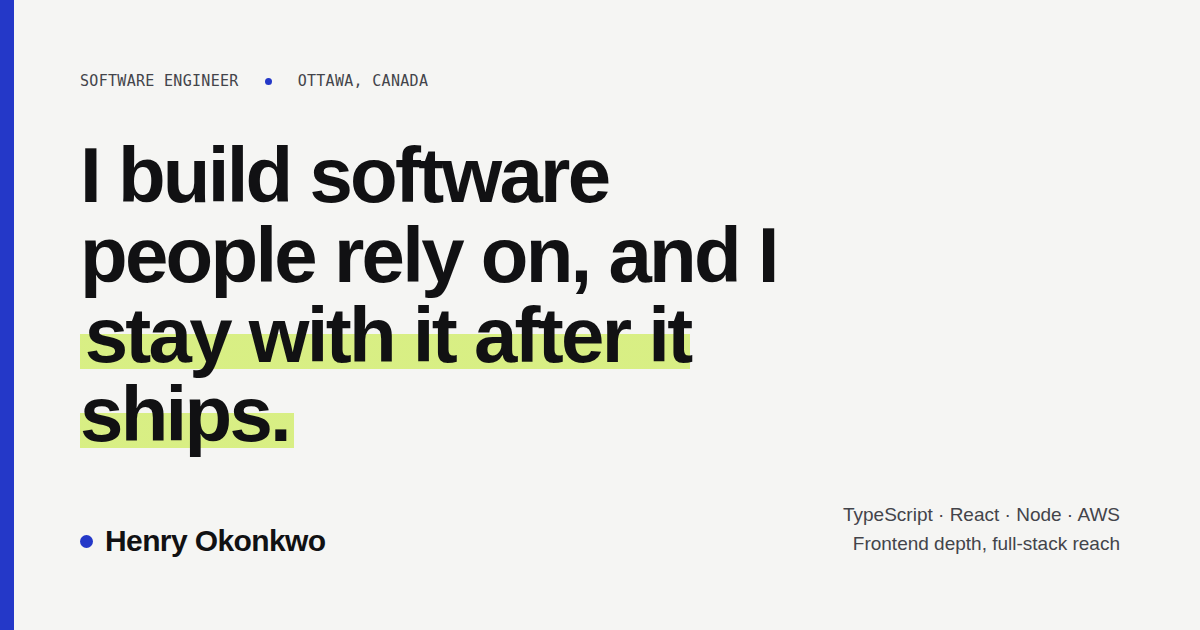
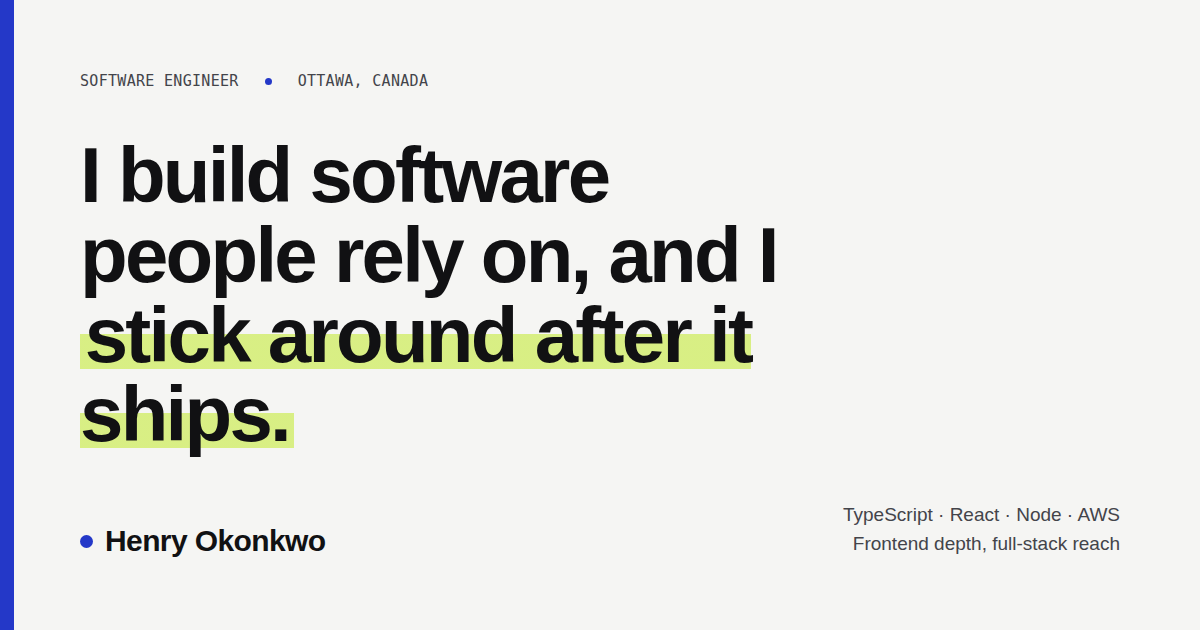
Update files

Changed region(s): [[0.1233, 0.4825, 0.6475, 0.6032]]

diff --git a/index.html b/index.html
@@ -20,7 +20,7 @@
 <meta property="og:image" content="https://henryookonkwo.github.io/og-image.png">
 <meta property="og:image:width" content="1200">
 <meta property="og:image:height" content="630">
-<meta property="og:image:alt" content="Henry Okonkwo, Software Engineer — I build software people rely on, and I stay with it after it ships.">
+<meta property="og:image:alt" content="Henry Okonkwo, Software Engineer — I build software people rely on, and I stick around after it ships.">
 
 <meta name="twitter:card" content="summary_large_image">
 <meta name="twitter:title" content="Henry Okonkwo — Software Engineer">
@@ -617,9 +617,9 @@ footer .shell{display:flex;justify-content:space-between;gap:1rem;flex-wrap:wrap
         <span>Software Engineer</span>
         <span>Ottawa, Canada</span>
       </p>
-      <h1 id="intro-h" class="rise">I build software people rely on, and I <span class="mark">stay with it after it ships.</span></h1>
-      <p class="sub rise">Six years across cybersecurity, national logistics, consumer platforms and telecom. I work the whole path a feature travels: the conversation that defines it, the interface people touch, the API underneath, the data it lives in, and the pipeline that puts it in front of customers.</p>
-      <p class="sub rise">My deepest craft is the <b>frontend</b> — interfaces, design systems, accessibility, performance. I've just never treated that as the edge of the job.</p>
+      <h1 id="intro-h" class="rise">I build software people rely on, and I <span class="mark">stick around after it ships.</span></h1>
+      <p class="sub rise">Six years of it, across cybersecurity, national logistics, consumer platforms and telecom. These days I own services rather than screens, so a feature I ship includes the API design, the database, the pipeline and the on-call rotation, not just the part people click.</p>
+      <p class="sub rise">The <b>frontend</b> is still what I'm best at. It's just never been where I stop.</p>
       <div class="cta rise">
         <a class="btn solid" href="#contact">Get in touch</a>
         <a class="btn" href="#stack">See how I work across the stack</a>
@@ -627,9 +627,9 @@ footer .shell{display:flex;justify-content:space-between;gap:1rem;flex-wrap:wrap
 
       <dl class="glance">
         <div><dt class="sr-only">Years of experience</dt><dd class="n">6+</dd><dd class="t">Years building production software</dd></div>
-        <div><dt class="sr-only">Sectors</dt><dd class="n">4</dd><dd class="t">Sectors, from security to logistics</dd></div>
-        <div><dt class="sr-only">Scale</dt><dd class="n">500K+</dd><dd class="t">Organisations reached by platforms I've worked on</dd></div>
-        <div><dt class="sr-only">Ownership</dt><dd class="n">6</dd><dd class="t">Production services owned end to end today</dd></div>
+        <div><dt class="sr-only">Sectors</dt><dd class="n">4</dd><dd class="t">Industries, from security to logistics</dd></div>
+        <div><dt class="sr-only">Scale</dt><dd class="n">500K+</dd><dd class="t">Organizations using the platform I work on</dd></div>
+        <div><dt class="sr-only">Ownership</dt><dd class="n">6</dd><dd class="t">Production services I own today</dd></div>
       </dl>
     </section>
 
@@ -637,24 +637,24 @@ footer .shell{display:flex;justify-content:space-between;gap:1rem;flex-wrap:wrap
     <section class="band" id="story" aria-labelledby="story-h">
       <div class="bandhead">
         <span class="mono kicker">How I got here</span>
-        <h2 id="story-h">A frontend engineer who kept following the problem</h2>
-        <p>Three chapters, and a fairly consistent pattern in all of them.</p>
+        <h2 id="story-h">I kept following the problem past the frontend</h2>
+        <p>Three stages, and the same habit driving all of them.</p>
       </div>
       <div class="story">
         <div class="col">
           <span class="mono num">Chapter one</span>
-          <h3>Learning the craft properly</h3>
-          <p>I started where a lot of engineers start — building interfaces — but I got lucky in where I did it. Environments with real test discipline, real accessibility requirements, and real consequences for shipping something broken. I learned component architecture, type safety and testing as habits rather than as things you add later when someone asks.</p>
+          <h3>Learning the craft</h3>
+          <p>I started out building interfaces, and I got lucky with where. Teams that took testing seriously, products with real accessibility requirements, and enough scale that a bad release was somebody's actual problem. Component structure, types and tests became habits early instead of things I bolted on afterwards.</p>
         </div>
         <div class="col">
           <span class="mono num">Chapter two</span>
-          <h3>Running out of road</h3>
-          <p>The more complex the products got, the more often the interesting problem sat on the other side of a boundary I wasn't supposed to cross. A slow page that was really a query. A confusing screen that was really a missing API. Waiting for someone else to pick it up was slower than learning enough to help, so I learned.</p>
+          <h3>Hitting the boundary</h3>
+          <p>As the products got bigger, the interesting problem was usually just past a line I wasn't meant to cross. A slow page that turned out to be a query. A confusing screen that was really a missing endpoint. I got tired of waiting for someone else to have time, so I learned enough to do it myself.</p>
         </div>
         <div class="col">
           <span class="mono num">Chapter three</span>
-          <h3>Owning the whole thing</h3>
-          <p>Now I own services rather than screens. That means the design conversation, the API contract, the code on both sides of it, the tests, the pipeline, and the escalation at 9pm when something breaks. It's a bigger job and a better one, and it's made me a considerably more useful engineer to have on a team.</p>
+          <h3>Owning services</h3>
+          <p>Now I own six services instead of a set of screens. Design conversations, API contracts, code on both sides, tests, pipelines, and the escalation at nine at night when something breaks. Harder job. Much more interesting one.</p>
         </div>
       </div>
     </section>
@@ -664,14 +664,14 @@ footer .shell{display:flex;justify-content:space-between;gap:1rem;flex-wrap:wrap
       <div class="bandhead">
         <span class="mono kicker">Capabilities</span>
         <h2 id="cap-h">What I bring to a team</h2>
-        <p>Ordered roughly by how much of my week each one takes, not by how impressive it sounds.</p>
+        <p>Ordered by how much of my week each one takes.</p>
       </div>
       <div class="bento">
 
         <article class="tile feature">
           <span class="mono tk">Primary strength</span>
           <h3>Frontend engineering, at depth</h3>
-          <p>Production interfaces in TypeScript with React and Vue: component architecture that survives contact with other teams, state that stays predictable as features accumulate, design systems and the migrations that keep them current, theming, internationalisation, and performance work that starts with measurement rather than instinct. Accessibility is part of the build, not a remediation ticket — WCAG 2.1 AA and AODA are how I write the markup in the first place.</p>
+          <p>Production interfaces in TypeScript, mostly React with some Vue. Component structure other teams can build on, state that stays predictable as features pile up, design systems and the migrations that keep them current, theming, localization, and performance work that starts by measuring instead of guessing. I write accessible markup from the start, so WCAG 2.1 AA and AODA never become a cleanup ticket later.</p>
           <ul>
             <li>TypeScript</li><li>React</li><li>Vue</li><li>Design systems</li><li>WCAG 2.1 AA</li><li>Performance</li>
           </ul>
@@ -680,49 +680,49 @@ footer .shell{display:flex;justify-content:space-between;gap:1rem;flex-wrap:wrap
         <article class="tile wide">
           <span class="mono tk">End to end</span>
           <h3>Features, not layers</h3>
-          <p>I define API contracts with the engineers who build them, then ship on both sides where it makes sense: service endpoints, business logic, request and response shapes, documentation. Knowing what the other side costs makes me a better client of it — I stop asking for endpoints that are expensive to serve and start asking for ones that are cheap to build and cheap to call.</p>
+          <p>I define API contracts with the engineers who build them, and ship on both sides when it makes sense: endpoints, business logic, request and response shapes, documentation. Knowing what an endpoint costs to build makes me much better at asking for one.</p>
           <ul><li>REST</li><li>GraphQL</li><li>Node.js</li><li>OpenAPI</li><li>Contract design</li></ul>
         </article>
 
         <article class="tile third">
           <span class="mono tk">Data</span>
           <h3>Comfortable at the storage layer</h3>
-          <p>Relational and document stores, query and index behaviour, schema decisions and their downstream cost, and the careful work of investigating and correcting data on live systems without making things worse.</p>
+          <p>Relational and document stores, how queries and indexes actually behave, what a schema decision costs you a year later, and the careful work of fixing data on a live system without making it worse.</p>
           <ul><li>SQL</li><li>DynamoDB</li><li>S3</li></ul>
         </article>
 
         <article class="tile third">
           <span class="mono tk">Platform</span>
           <h3>Cloud and infrastructure</h3>
-          <p>Building and running services on AWS and Azure, containerised and orchestrated, with infrastructure defined in code. Enough depth to debug my own service in production rather than filing a ticket and waiting.</p>
+          <p>Running services on AWS and Azure, in containers, with infrastructure kept in code. Enough to deploy my own work and debug it in production instead of filing a ticket and waiting.</p>
           <ul><li>AWS</li><li>Azure</li><li>Docker</li><li>Kubernetes</li><li>Terraform</li></ul>
         </article>
 
         <article class="tile third">
           <span class="mono tk">Delivery</span>
           <h3>Pipelines and release</h3>
-          <p>CI/CD I maintain rather than inherit: build and test workflows, coverage gates, staged promotion through environments, feature flags for progressive rollout, and the discipline of shipping small.</p>
+          <p>Build and test workflows, coverage thresholds that actually block a merge, staged promotion through environments, and feature flags for gradual rollout. Usually I'm the one maintaining them, not just using them.</p>
           <ul><li>GitHub Actions</li><li>Coverage gates</li><li>Feature flags</li></ul>
         </article>
 
         <article class="tile wide">
           <span class="mono tk">Reliability</span>
           <h3>Security-minded, and on call for my own work</h3>
-          <p>I've spent enough time in identity, access control and authorisation to treat security as a design input rather than a review gate — permissions before pixels. I remediate what scanners and security reviews surface, and I take my turn on the escalation rotation, which is where you learn what your software is actually like to live with.</p>
+          <p>I've spent enough time in identity and access control that permissions are the first thing I think about on a new feature, not a review comment at the end. I fix what security scans and reviews turn up, and I take my turn on the escalation rotation. That rotation is where you find out what your software is really like to live with.</p>
           <ul><li>Authentication</li><li>Access control</li><li>Vulnerability remediation</li><li>On-call</li></ul>
         </article>
 
         <article class="tile wide">
           <span class="mono tk">Working with people</span>
           <h3>Clear, and easy to work with</h3>
-          <p>I write things down: specifications, test cases, migration guides, decision records. I mentor by handing over real work with enough scaffolding to succeed at it. I review specs as carefully as pull requests, because a wrong assumption costs more at the start than at the end. And I say when I don't know something, which turns out to save everyone time.</p>
+          <p>I write things down: specs, test cases, migration guides, decisions and why we made them. I mentor by handing over real work with enough support to succeed at it. I review specs as carefully as pull requests, because a wrong assumption is cheap to fix at the start and expensive at the end. And I say when I don't know something.</p>
           <ul><li>Mentoring</li><li>Documentation</li><li>Code &amp; spec review</li><li>Cross-team</li></ul>
         </article>
 
         <article class="tile full">
           <span class="mono tk">Modern tooling</span>
           <h3>AI-assisted engineering, used seriously</h3>
-          <p>Agentic coding tools and MCP servers are part of my daily workflow — planning complex changes, generating and reviewing test coverage, working through large migrations, turning specifications into task breakdowns. The value is in the judgement applied around them: I read every diff, and I've caught generated plans built on assumptions the codebase didn't support.</p>
+          <p>Agentic coding tools and MCP servers are part of my daily workflow: planning complex changes, generating and reviewing test coverage, working through large migrations, turning specs into task lists. The judgment around them is still the job. I read every diff, and I've thrown out generated plans that were built on assumptions the codebase didn't support.</p>
           <ul><li>Agentic tooling</li><li>MCP</li><li>Spec-first workflows</li><li>Test generation</li></ul>
         </article>
 
@@ -734,7 +734,7 @@ footer .shell{display:flex;justify-content:space-between;gap:1rem;flex-wrap:wrap
       <div class="bandhead">
         <span class="mono kicker">The stack</span>
         <h2 id="stack-h">Where I work, and how deep I go</h2>
-        <p>An honest map rather than a list of everything I've touched. Expand a layer to see what I actually do there.</p>
+        <p>An honest map, not a list of everything I've ever touched. Open a layer to see what I actually do there.</p>
       </div>
 
       <div class="stack" id="stackList">
@@ -754,7 +754,7 @@ footer .shell{display:flex;justify-content:space-between;gap:1rem;flex-wrap:wrap
             </button>
           </h3>
           <div class="panel" id="p-ui" role="region" aria-labelledby="b-ui">
-            <p>Component architecture, application state, routing, forms, data fetching and caching, design-system adoption and migration, theming, responsive layout, internationalisation, and accessibility built in from the markup up. This is where I'm fastest and where I'd expect to raise a team's ceiling.</p>
+            <p>Component structure, application state, routing, forms, data fetching and caching, design-system adoption and migration, theming, responsive layout, localization, and accessibility written into the markup from the start. I'm fastest here, and this is where I'd expect to raise a team's ceiling.</p>
             <ul><li>TypeScript</li><li>React</li><li>Next.js</li><li>Vue</li><li>Zustand</li><li>Redux</li><li>React Query</li><li>Tailwind</li><li>Design tokens</li><li>WCAG 2.1 AA</li></ul>
           </div>
         </div>
@@ -774,7 +774,7 @@ footer .shell{display:flex;justify-content:space-between;gap:1rem;flex-wrap:wrap
             </button>
           </h3>
           <div class="panel" id="p-api" role="region" aria-labelledby="b-api" hidden>
-            <p>Designing endpoints with the engineers who implement them: resource shapes, pagination and filtering, error semantics, versioning, and the documentation that keeps everyone honest. Most of the worst frontend code I've seen exists to compensate for an API nobody negotiated.</p>
+            <p>Designing endpoints with the engineers who implement them: resource shapes, pagination and filtering, error handling, versioning, and documentation that stays accurate. A lot of ugly frontend code exists only to work around an API nobody discussed first.</p>
             <ul><li>REST</li><li>GraphQL</li><li>OpenAPI / Swagger</li><li>Pagination &amp; filtering</li><li>Versioning</li><li>WebSockets</li></ul>
           </div>
         </div>
@@ -794,8 +794,8 @@ footer .shell{display:flex;justify-content:space-between;gap:1rem;flex-wrap:wrap
             </button>
           </h3>
           <div class="panel" id="p-svc" role="region" aria-labelledby="b-svc" hidden>
-            <p>Server-side changes in the services I own: business logic, authentication and authorisation checks, integration with internal platforms, and the tests that keep them honest. I'm not going to claim I'd architect a distributed system from scratch — I will absolutely ship a well-tested change in one.</p>
-            <ul><li>Node.js</li><li>Express</li><li>Authorisation</li><li>Integration</li><li>Go (reading)</li></ul>
+            <p>Server-side changes in the services I own: business logic, authentication and authorization checks, integrations with internal platforms, and the tests that go with them. I won't claim I'd architect a distributed system from scratch. I will happily ship a well-tested change inside one.</p>
+            <ul><li>Node.js</li><li>Express</li><li>Authorization</li><li>Integration</li><li>Go (reading)</li></ul>
           </div>
         </div>
 
@@ -814,8 +814,8 @@ footer .shell{display:flex;justify-content:space-between;gap:1rem;flex-wrap:wrap
             </button>
           </h3>
           <div class="panel" id="p-data" role="region" aria-labelledby="b-data" hidden>
-            <p>Reading and writing across relational and document stores, understanding how access patterns shape schema decisions, optimising queries that have outgrown their design, and investigating and correcting records on live systems with the care that deserves.</p>
-            <ul><li>SQL Server</li><li>DynamoDB</li><li>S3</li><li>Query optimisation</li><li>Data investigation</li></ul>
+            <p>Reading and writing across relational and document stores, understanding how access patterns shape a schema, fixing queries that outgrew their design, and correcting records on live systems with the care that deserves.</p>
+            <ul><li>SQL Server</li><li>DynamoDB</li><li>S3</li><li>Query optimization</li><li>Data investigation</li></ul>
           </div>
         </div>
 
@@ -834,7 +834,7 @@ footer .shell{display:flex;justify-content:space-between;gap:1rem;flex-wrap:wrap
             </button>
           </h3>
           <div class="panel" id="p-plat" role="region" aria-labelledby="b-plat" hidden>
-            <p>Cloud services, containers, orchestration and infrastructure as code — enough to deploy my own work, read the logs and metrics when it misbehaves, and hold a useful conversation with the people whose full-time job this is.</p>
+            <p>Cloud services, containers, orchestration and infrastructure as code. Enough to deploy my own work, read the logs and metrics when it misbehaves, and hold a useful conversation with the people who do this full time.</p>
             <ul><li>AWS</li><li>Azure</li><li>Docker</li><li>Kubernetes</li><li>Terraform</li><li>Observability</li></ul>
           </div>
         </div>
@@ -854,7 +854,7 @@ footer .shell{display:flex;justify-content:space-between;gap:1rem;flex-wrap:wrap
             </button>
           </h3>
           <div class="panel" id="p-del" role="region" aria-labelledby="b-del" hidden>
-            <p>Build and test pipelines, coverage thresholds that actually block a merge, staged promotion through environments, feature flags for progressive and regional rollout, release verification, and taking my turn on the escalation rotation for what I've shipped.</p>
+            <p>Build and test pipelines, coverage thresholds that actually block a merge, staged promotion through environments, feature flags for gradual and regional rollout, release verification, and my turn on the escalation rotation for whatever I've shipped.</p>
             <ul><li>GitHub Actions</li><li>CI/CD</li><li>Jest</li><li>Playwright</li><li>Cypress</li><li>Feature flags</li><li>On-call</li></ul>
           </div>
         </div>
@@ -872,29 +872,29 @@ footer .shell{display:flex;justify-content:space-between;gap:1rem;flex-wrap:wrap
     <section class="band" id="process" aria-labelledby="proc-h">
       <div class="bandhead">
         <span class="mono kicker">How I work</span>
-        <h2 id="proc-h">The same four moves, most of the time</h2>
-        <p>Not a methodology. Just the order that keeps me from building the wrong thing well.</p>
+        <h2 id="proc-h">Roughly the same four steps every time</h2>
+        <p>Not a methodology. Just the order that stops me building the wrong thing well.</p>
       </div>
       <ol class="process" role="list" style="list-style:none;padding:0">
         <li class="step">
           <span class="sn">Step one</span>
           <h3>Understand the constraint</h3>
-          <p>Before design, find out what's actually forcing the request — a compliance requirement, a customer escalation, a cost, a limit someone hit. The stated feature and the real constraint are often different, and only one of them tells you what "done" means.</p>
+          <p>Before any design work, find out what's actually driving the request. A compliance rule, a customer escalation, a cost, a limit someone hit. The feature people ask for and the problem behind it are often different things, and only one of them tells you when you're done.</p>
         </li>
         <li class="step">
           <span class="sn">Step two</span>
           <h3>Agree the contract</h3>
-          <p>Settle the interface between the pieces before anyone builds: what the API returns, who owns which behaviour, what the failure cases are. Written down, reviewed by both sides. This is the cheapest hour in the whole project.</p>
+          <p>Settle what sits between the pieces before anyone builds: what the API returns, who owns which behavior, what happens when it fails. Written down, agreed by both sides.</p>
         </li>
         <li class="step">
           <span class="sn">Step three</span>
           <h3>Build in thin slices</h3>
-          <p>Ship something small and real, get it in front of QA and the people who asked, and adjust. Tests as I go, not as a phase. Big-bang integration is where estimates go to die.</p>
+          <p>Ship something small and real, get it in front of QA and whoever asked for it, adjust. Tests as I go. Leaving integration until the end has never once worked out for me.</p>
         </li>
         <li class="step">
           <span class="sn">Step four</span>
           <h3>Own it in production</h3>
-          <p>Verify it in the real environment, watch it, document it for whoever inherits it, and pick up the escalation when it comes. Shipping is the middle of the job, not the end of it.</p>
+          <p>Verify it in the real environment, watch it for a while, write it up for whoever inherits it, and pick up the escalation when it comes.</p>
         </li>
       </ol>
     </section>
@@ -904,7 +904,7 @@ footer .shell{display:flex;justify-content:space-between;gap:1rem;flex-wrap:wrap
       <div class="bandhead">
         <span class="mono kicker">Experience</span>
         <h2 id="exp-h">Where I've done it</h2>
-        <p>Enterprise security, national logistics, consumer platforms, telecom infrastructure.</p>
+        <p>Enterprise security, national logistics, consumer platforms and telecom.</p>
       </div>
       <div class="roles">
 
@@ -913,7 +913,7 @@ footer .shell{display:flex;justify-content:space-between;gap:1rem;flex-wrap:wrap
           <div>
             <h3>Senior Frontend Engineer</h3>
             <span class="org">TrendAI (Trend Micro)</span>
-            <p>Own six production services end to end on Trend Vision One, a cybersecurity platform protecting 500,000+ organisations across 175+ countries — identity and access management, permissions, API keys and administrative tooling. Design interfaces and the API contracts behind them, ship changes on both sides, lead design-system migrations across multiple repositories, maintain the CI/CD pipelines and coverage gates, remediate security findings, and take the customer-escalation rotation for the areas I own.</p>
+            <p>I own six services on Trend Vision One, a cybersecurity platform used by more than 500,000 organizations in over 175 countries: identity and access management, permissions, API keys and admin tooling. That covers the interfaces, the API contracts behind them, changes on both sides, design-system migrations across repositories, the CI/CD pipelines and coverage gates, security fixes, and the customer escalation rotation for my areas.</p>
           </div>
         </article>
 
@@ -922,7 +922,7 @@ footer .shell{display:flex;justify-content:space-between;gap:1rem;flex-wrap:wrap
           <div>
             <h3>Frontend Engineer</h3>
             <span class="org">Canada Post</span>
-            <p>Built and maintained high-traffic customer applications for parcel tracking and logistics used across 5,000+ post offices nationwide. Delivered reusable React and TypeScript components that held up under peak seasonal load, shipped a multilingual templating system that let non-technical staff publish content safely, and worked bilingually with accessibility designed in rather than retrofitted.</p>
+            <p>Customer-facing applications for parcel tracking and logistics, used across more than 5,000 post offices. I built reusable React and TypeScript components that held up through peak season, shipped a multilingual templating system so non-technical staff could publish content safely, and worked across English and French surfaces with accessibility designed in from the start.</p>
           </div>
         </article>
 
@@ -931,7 +931,7 @@ footer .shell{display:flex;justify-content:space-between;gap:1rem;flex-wrap:wrap
           <div>
             <h3>Full Stack Developer</h3>
             <span class="org">GoodLife Fitness</span>
-            <p>Worked across the stack on customer-facing platforms serving millions of annual visits: query and page-performance optimisation, checkout and membership flow improvements that measurably lifted conversion, and cloud infrastructure maintained as code.</p>
+            <p>Full-stack work on customer platforms handling millions of visits a year: query and page-performance optimization, checkout and membership flow changes that measurably lifted conversion, and cloud infrastructure kept in code.</p>
           </div>
         </article>
 
@@ -940,7 +940,7 @@ footer .shell{display:flex;justify-content:space-between;gap:1rem;flex-wrap:wrap
           <div>
             <h3>Software Engineer</h3>
             <span class="org">Nokia</span>
-            <p>Built a reusable component library adopted across multiple internal applications, developed shared hooks and abstractions that improved performance and removed duplication, and worked to test-driven discipline with high coverage and full accessibility compliance on every feature shipped.</p>
+            <p>Built a shared component library adopted across several internal applications, plus hooks and abstractions that cut duplication and improved performance. Test-driven, high coverage, and every feature shipped accessible.</p>
           </div>
         </article>
 
@@ -963,7 +963,7 @@ footer .shell{display:flex;justify-content:space-between;gap:1rem;flex-wrap:wrap
       <div class="bandhead">
         <span class="mono kicker">Toolkit</span>
         <h2 id="kit-h">The tools, grouped by the job</h2>
-        <p>Things I've used to ship something real, not things I've read about.</p>
+        <p>Things I've actually shipped with.</p>
       </div>
       <div class="kit">
         <section class="kitgroup" aria-labelledby="k1"><h3 id="k1">Languages</h3>
@@ -976,7 +976,7 @@ footer .shell{display:flex;justify-content:space-between;gap:1rem;flex-wrap:wrap
           <ul><li>Node.js</li><li>Express</li><li>REST</li><li>GraphQL</li><li>OpenAPI</li><li>WebSockets</li></ul>
         </section>
         <section class="kitgroup" aria-labelledby="k4"><h3 id="k4">Data &amp; storage</h3>
-          <ul><li>DynamoDB</li><li>SQL Server</li><li>S3</li><li>Query optimisation</li></ul>
+          <ul><li>DynamoDB</li><li>SQL Server</li><li>S3</li><li>Query optimization</li></ul>
         </section>
         <section class="kitgroup" aria-labelledby="k5"><h3 id="k5">Cloud &amp; infrastructure</h3>
           <ul><li>AWS</li><li>Azure</li><li>Docker</li><li>Kubernetes</li><li>Terraform</li><li>CloudWatch</li></ul>
@@ -996,7 +996,7 @@ footer .shell{display:flex;justify-content:space-between;gap:1rem;flex-wrap:wrap
     <!-- ================= CLOSE ================= -->
     <section class="close" id="contact" aria-labelledby="contact-h">
       <h2 id="contact-h">Let's talk about what you're building.</h2>
-      <p>I'm open to senior and lead software engineering roles, fully remote. Happy to go deep on any of the above, including the parts that went wrong first.</p>
+      <p>I'm open to senior and lead engineering roles, fully remote. Happy to go into detail on any of this, including the parts that didn't go well the first time.</p>
       <div class="cta">
         <a class="btn solid" href="mailto:henryookonkwo@gmail.com">henryookonkwo@gmail.com</a>
         <a class="btn" href="https://www.linkedin.com/in/henryookonkwo/" target="_blank" rel="noopener">LinkedIn<span class="sr-only"> (opens in a new tab)</span></a>
